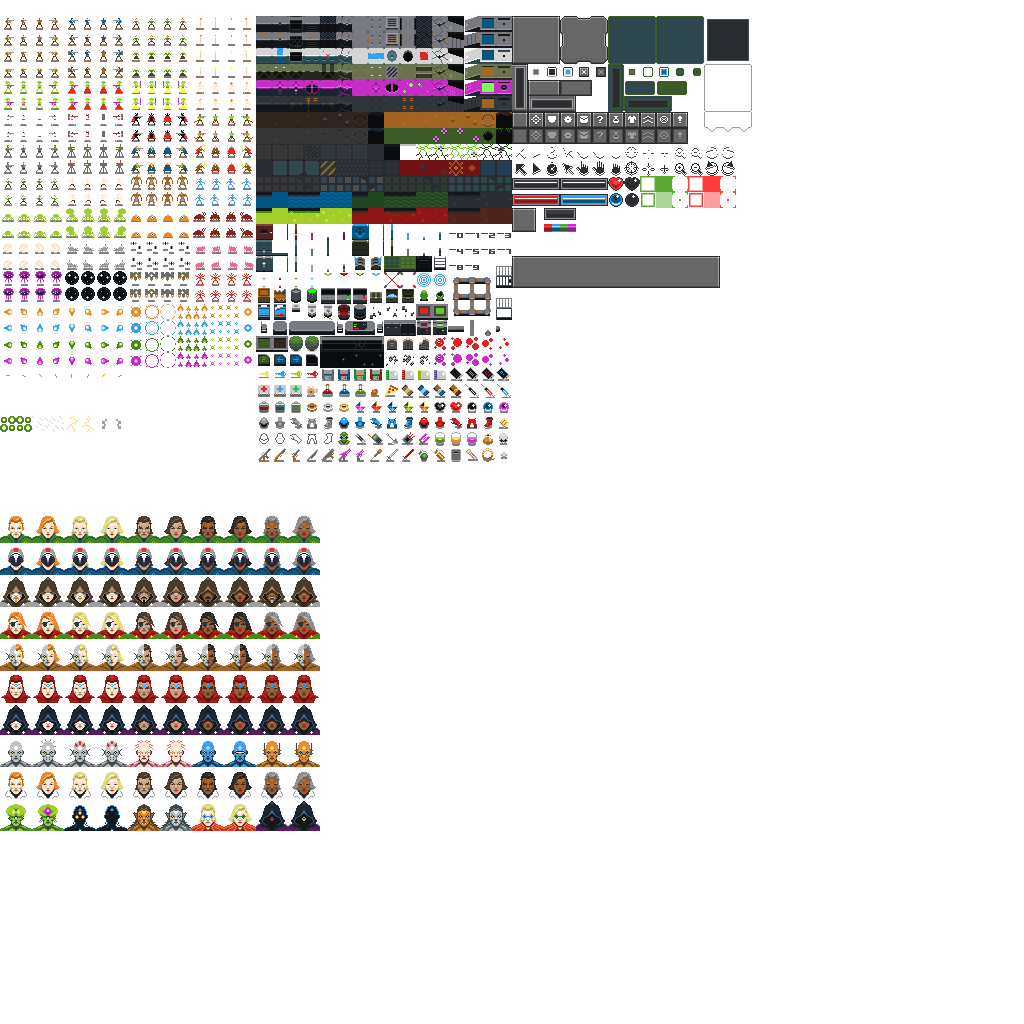
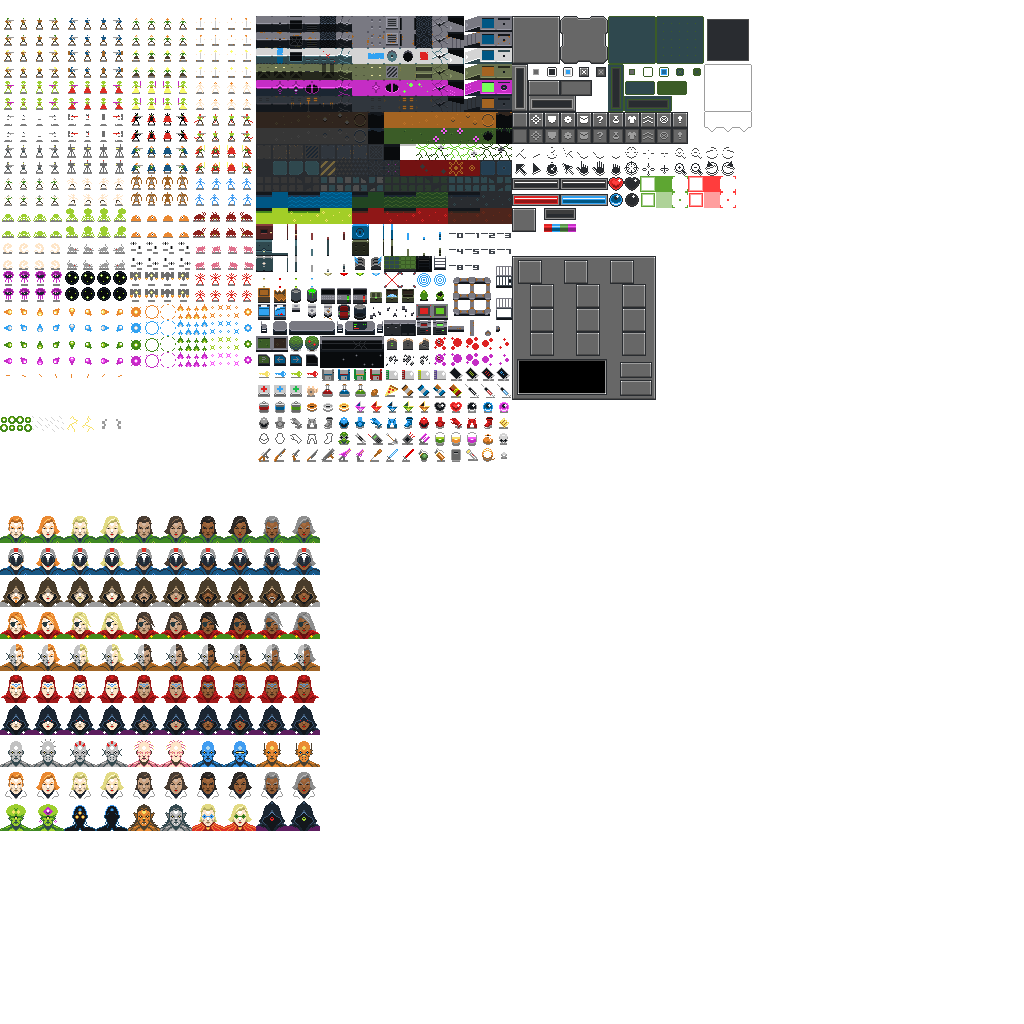
Talents screen mock

Changed region(s): [[0.5, 0.25, 0.7188, 0.4062]]

diff --git a/src/game.js b/src/game.js
@@ -16,6 +16,7 @@ let inventory = null;
 let messages = null;
 let viewport = null;
 let selectedEntity = null;
+let talentsOpen = false;
 
 function initEntities() {
     player = {
@@ -234,6 +235,11 @@ function handlePlayerInput() {
         return;
     }
 
+    if (keys[KEY_N].downCount === 1) {
+        talentsOpen = true;
+        return;
+    }
+
     let nextStep = null;
     if (player.path) {
         nextStep = player.path[player.pathIndex];
@@ -414,7 +420,7 @@ function takeDamage(attacker, entity, damage) {
         if (attacker.entityType === ENTITY_TYPE_PLAYER) {
             const xpGain = entity.level * 10;
             player.xp += xpGain;
-            if (player.xp >= player.maxXp) {
+            while (player.xp >= player.maxXp) {
                 player.xp -= player.maxXp;
                 player.maxXp *= 2;
                 player.level++;
@@ -523,6 +529,11 @@ function update() {
 
     if (dialogState.visible) {
         handleDialogInput();
+    } else if (talentsOpen) {
+        if (keys[KEY_N].downCount === 1) {
+            talentsOpen = false;
+        }
+
     } else if (player.hp > 0) {
         while (true) {
             const currEntity = entities[currEntityIndex];
@@ -601,6 +612,75 @@ function render() {
         renderDialog();
     } else {
         renderNormalMode();
+
+        if (talentsOpen) {
+            // Draw translucent layer to darken the game
+            drawTexture(0, 0, 512, 256, 144, 144, 0x00000080, SCREEN_WIDTH, SCREEN_HEIGHT);
+
+            // Draw dialog background
+            const x = ((SCREEN_WIDTH - 144) / 2) | 0;
+            const y = ((SCREEN_HEIGHT - 144) / 2) | 0;
+            drawTexture(x, y, 512, 256, 144, 144);
+
+            // Strength
+
+            // Leap
+            drawTexture(x + 6 + 4, y + 5 + 4, 480, 416, 16, 16);
+            drawString('2', x + 6 + 4 + 11, y + 5 + 4 + 10, 0x00FF00FF);
+
+            // Charge
+            drawTexture(x + 6 + 12 + 4, y + 5 + 24 + 4, 464, 416, 16, 16);
+            drawString('0', x + 6 + 16 + 11, y + 5 + 24 + 14, 0x00FF00FF);
+
+            // Shooter
+            drawTexture(x + 6 + 12 + 4, y + 5 + 48 + 4, 624, 160, 16, 16);
+            drawString('0', x + 6 + 16 + 11, y + 5 + 48 + 14, 0x00FF00FF);
+
+            // Brawler
+            drawTexture(x + 6 + 12 + 4, y + 5 + 72 + 4, 448, 416, 16, 16);
+            drawString('0', x + 6 + 16 + 11, y + 5 + 72 + 14, 0x00FF00FF);
+
+            // Tech
+
+            // Armorsmith
+            drawTexture(x + 52 + 4, y + 5 + 4, 336, 416, 16, 16);
+            drawString('0', x + 52 + 4 + 11, y + 5 + 4 + 10, 0x00FF00FF);
+
+            // Weaponsmith
+            drawTexture(x + 52 + 12 + 4, y + 5 + 24 + 4, 336, 448, 16, 16);
+            drawString('0', x + 52 + 16 + 11, y + 5 + 24 + 14, 0x00FF00FF);
+
+            // Power Saver
+            drawTexture(x + 52 + 12 + 4, y + 5 + 48 + 4, 272, 400, 16, 16);
+            drawString('0', x + 52 + 16 + 11, y + 5 + 48 + 14, 0x00FF00FF);
+
+            // Hacker
+            drawTexture(x + 52 + 12 + 4, y + 5 + 72 + 4, 400, 432, 16, 16);
+            drawString('0', x + 52 + 16 + 11, y + 5 + 72 + 14, 0x00FF00FF);
+
+            // Psych
+
+            // Sleeper
+            drawTexture(x + 98 + 4, y + 5 + 4, 128, 354, 16, 16);
+            drawString('0', x + 98 + 4 + 11, y + 5 + 4 + 10, 0x00FF00FF);
+
+            // Push
+            drawTexture(x + 98 + 12 + 4, y + 5 + 24 + 4, 592, 160, 16, 16);
+            drawString('0', x + 98 + 16 + 11, y + 5 + 24 + 14, 0x00FF00FF);
+
+            // Stealth
+            drawTexture(x + 98 + 12 + 4, y + 5 + 48 + 4, 272, 400, 16, 16);
+            drawString('0', x + 98 + 16 + 11, y + 5 + 48 + 14, 0x00FF00FF);
+
+            // Blocker
+            drawTexture(x + 98 + 12 + 4, y + 5 + 72 + 4, 352, 400, 16, 16);
+            drawString('0', x + 98 + 16 + 11, y + 5 + 72 + 14, 0x00FF00FF);
+
+            drawString('1: Leap 2 squares', x + 8, y + 106, 0xFFFFFFFF);
+            drawString('2: Leap 3 squares', x + 8, y + 114, 0xFFFFFFFF);
+            drawString('3: Leap 4 squares', x + 8, y + 122, 0x00FF00FF);
+            drawString('4: Leap 5 squares', x + 8, y + 130, 0x808080FF);
+        }
     }
 
     drawSprites();

diff --git a/src/constants.js b/src/constants.js
@@ -18,6 +18,7 @@ const KEY_DOWN = 40;
 const KEY_1 = 49;
 const KEY_2 = 50;
 const KEY_A = 65;
+const KEY_N = 78;
 const KEY_X = 88;
 const KEY_Z = 90;
 const KEY_NUMPAD_0 = 96;
